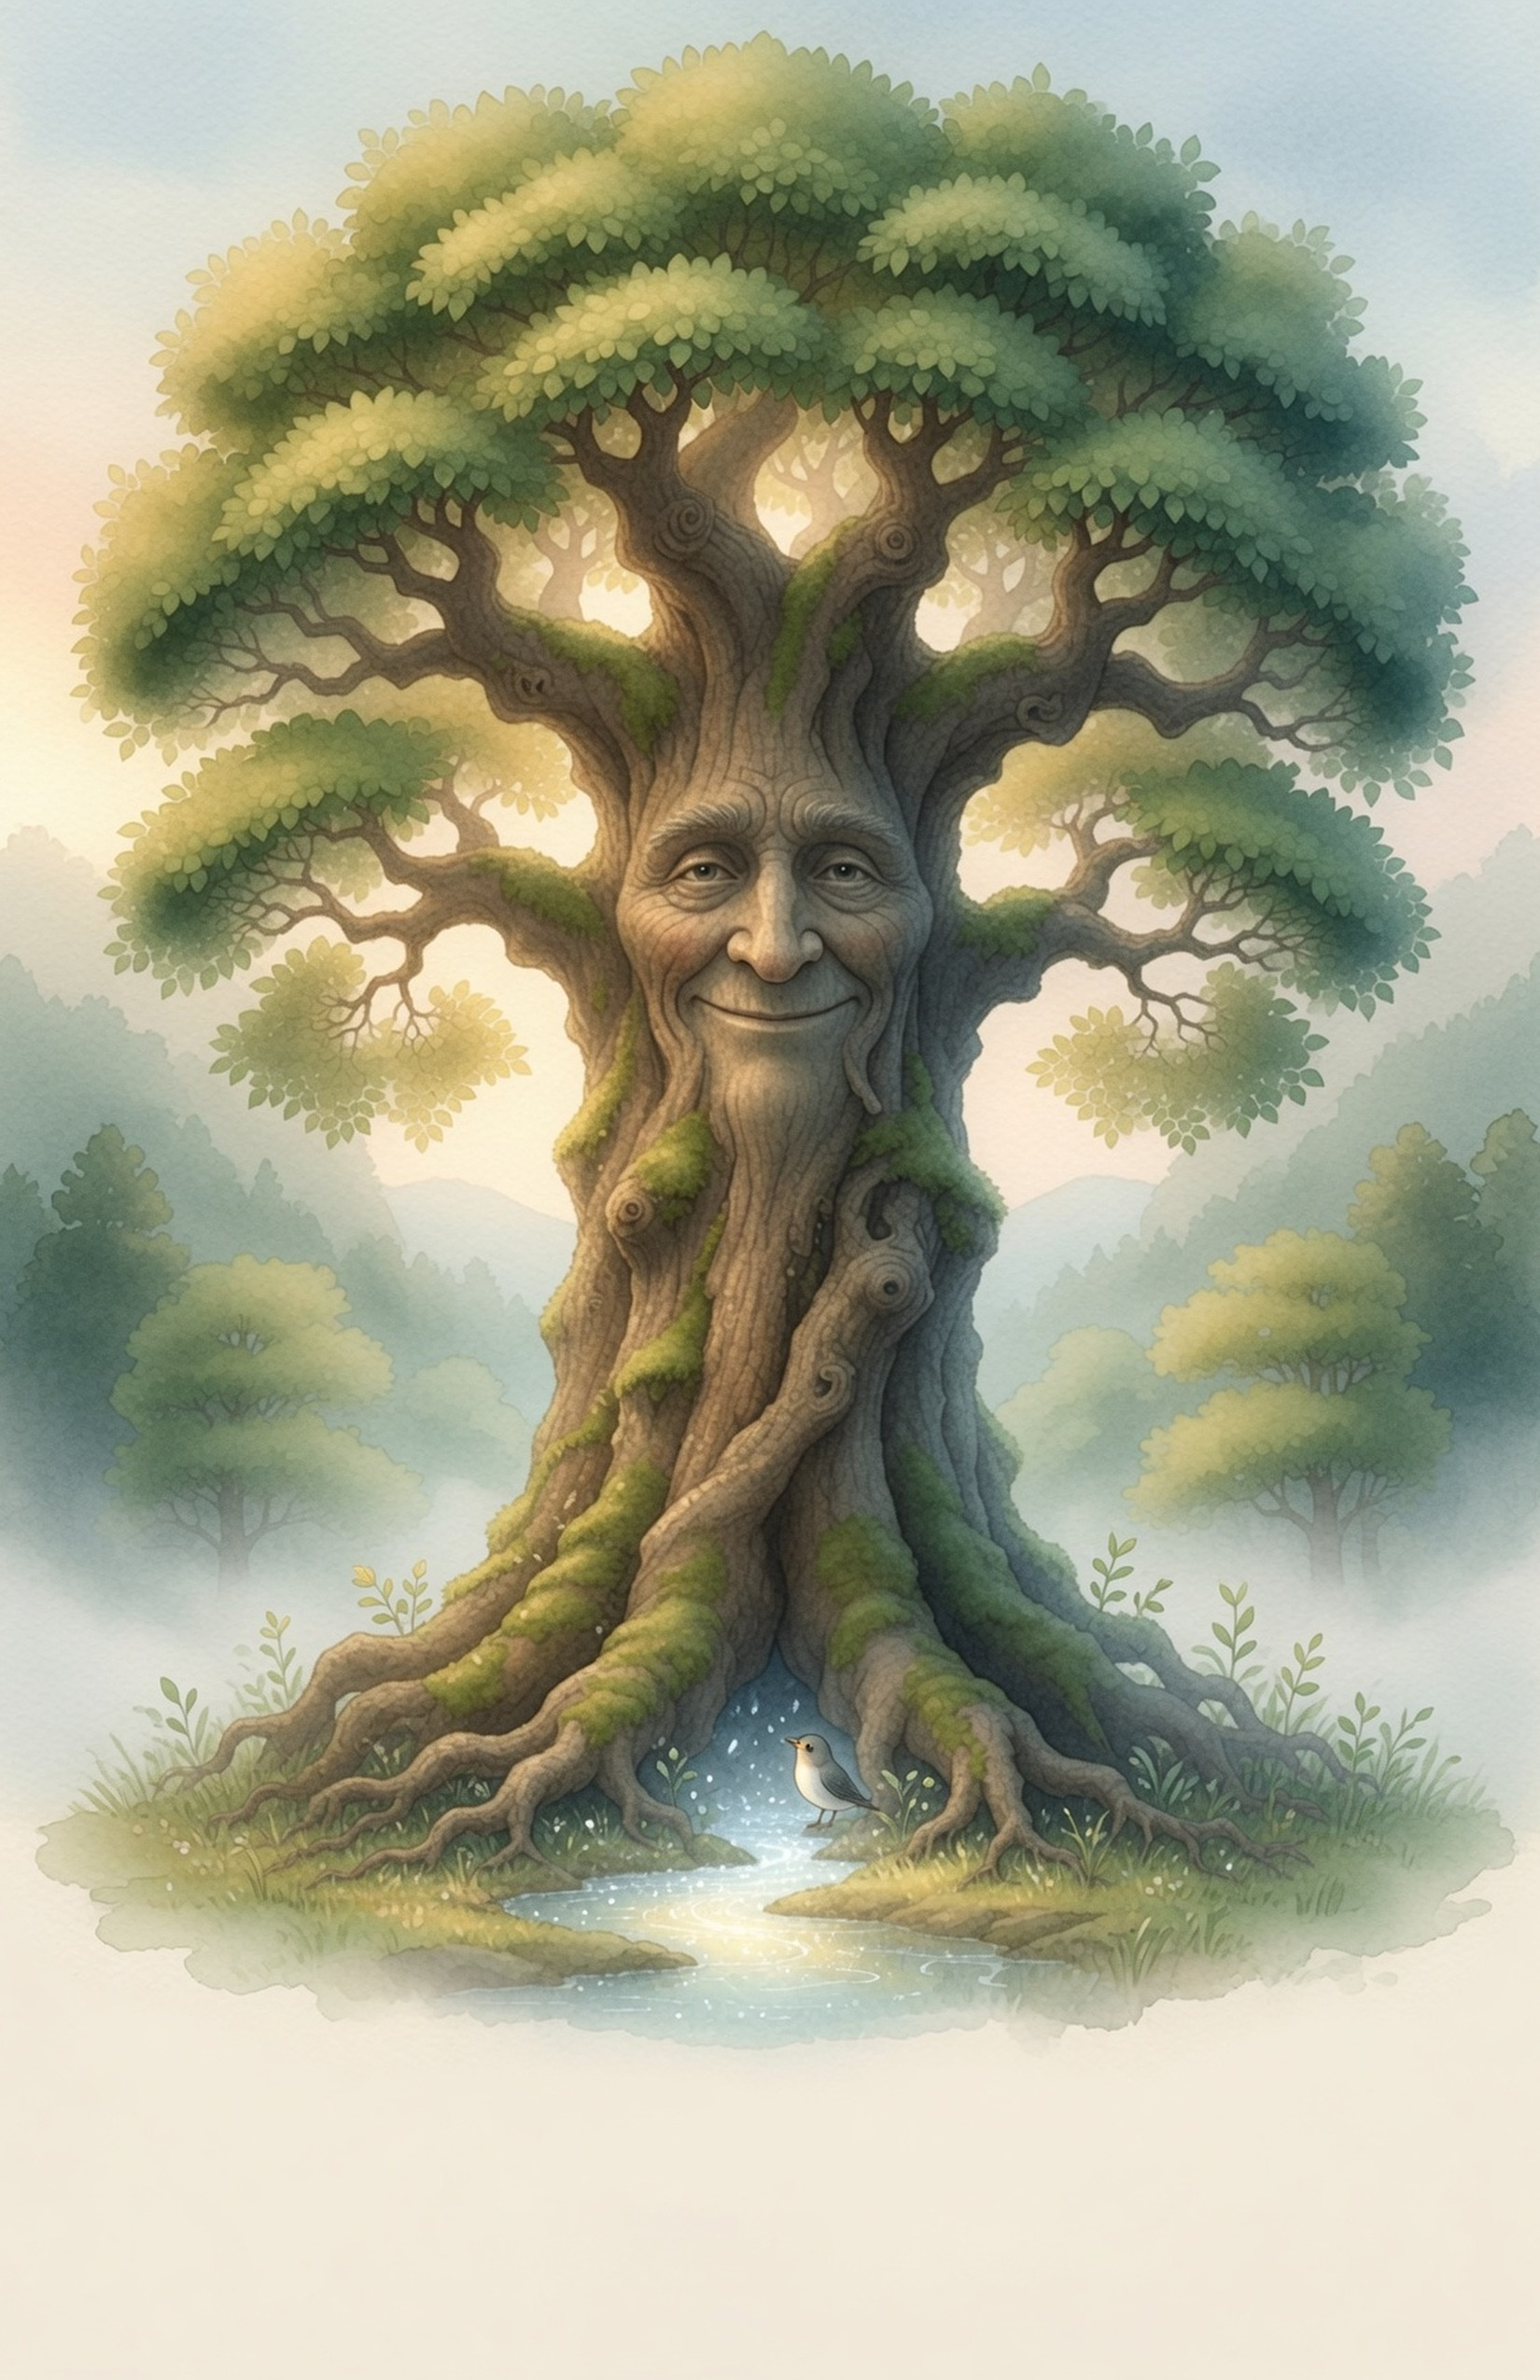
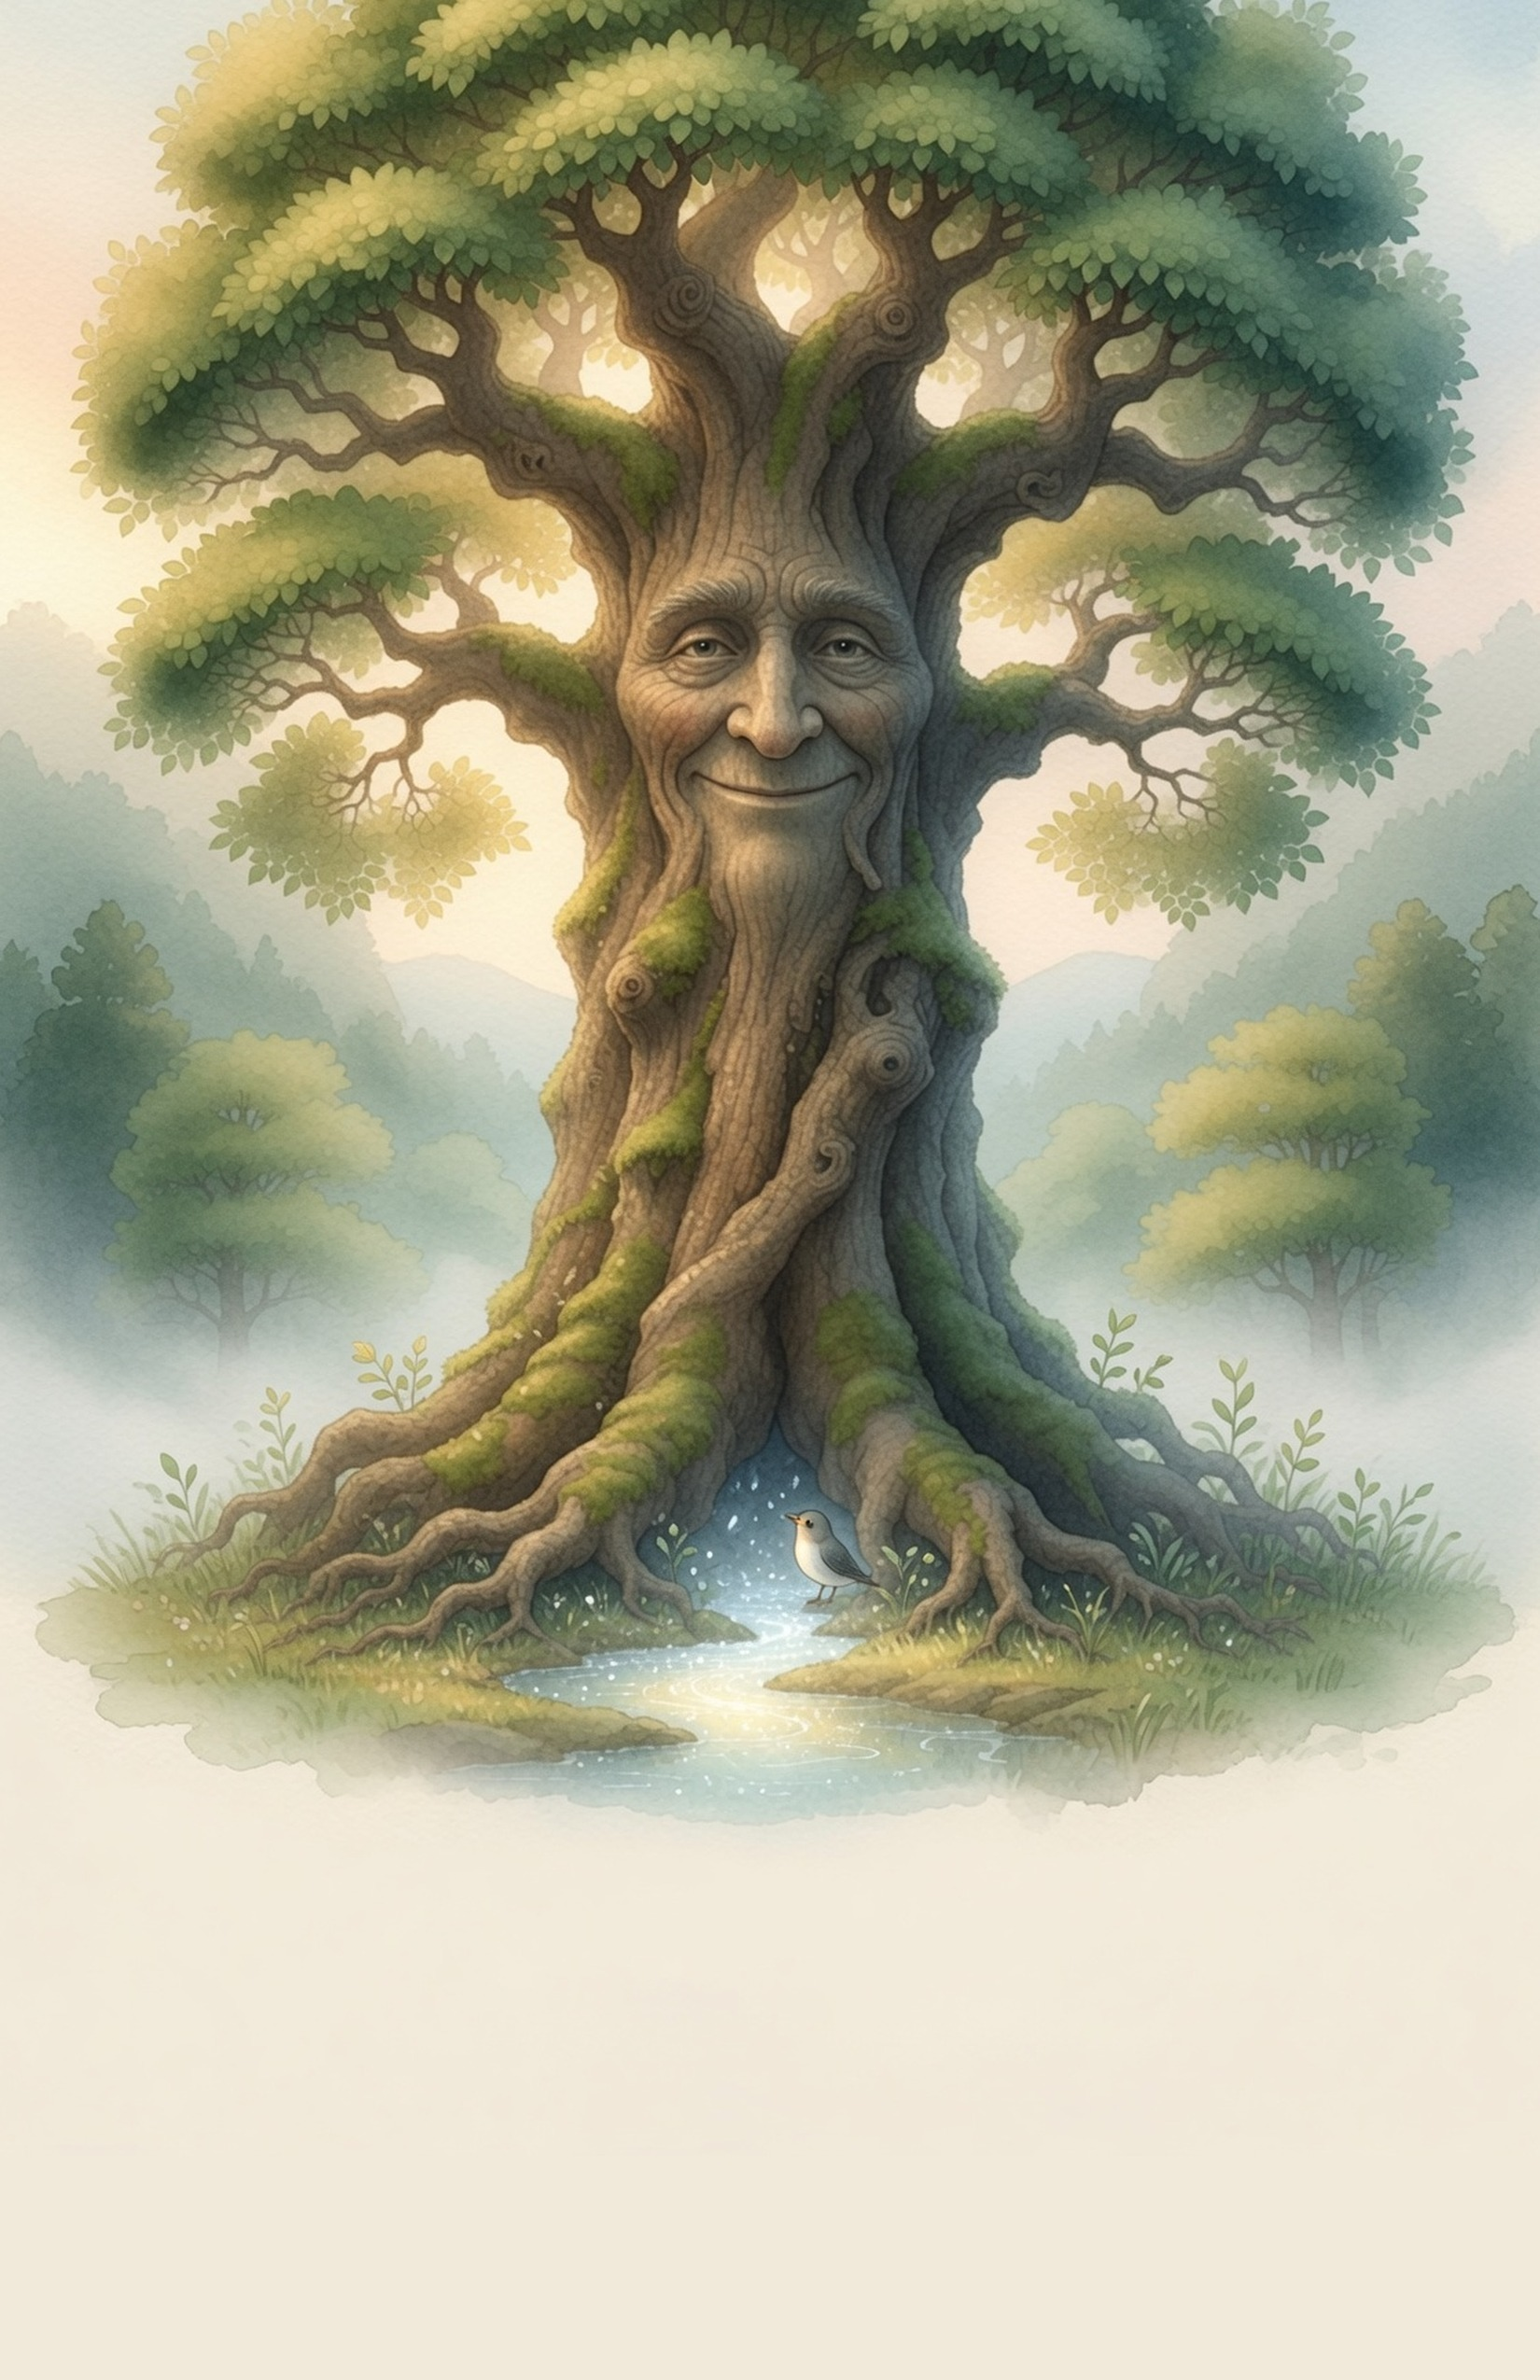
Translate Hai page 2 image up 240px, needed quite a bit but at least bottom color is flat; also script to translate_up

diff --git a/scripts/translate_up.py b/scripts/translate_up.py
@@ -1,0 +1,96 @@
+#!/usr/bin/env python3
+"""Translate an image up by X pixels, filling the exposed bottom with its edge color.
+
+Usage:
+  python translate_up.py <pixels> <filename>
+  python translate_up.py 40 ./images/page01.png
+
+The source image is shifted upward by `pixels`, revealing a strip of that many
+rows along the bottom. That strip is filled with the average color of the
+original bottom row (most inputs are a single uniform color there). Various
+input formats (jpg, png, tif, webp, bmp, etc.) are accepted; the result is
+always written as a JPEG in the same directory with a "_tup" suffix
+(e.g. page01.png -> page01_tup.jpg).
+"""
+import argparse
+import os
+
+from PIL import Image
+
+DEFAULT_QUALITY = 92
+
+IMAGE_EXTS = {".jpg", ".jpeg", ".png", ".tif", ".tiff", ".bmp", ".webp", ".gif"}
+
+
+def average_bottom_color(im):
+    """Return the integer-triplet mean color of the image's bottom row."""
+    w, h = im.size
+    bottom = im.crop((0, h - 1, w, h))
+    if hasattr(bottom, "get_flattened_data"):
+        pixels = list(bottom.get_flattened_data())
+    else:  # Pillow < 12
+        pixels = list(bottom.getdata())
+    n = len(pixels)
+    if n == 0:
+        return (0, 0, 0)
+    r = sum(p[0] for p in pixels) / n
+    g = sum(p[1] for p in pixels) / n
+    b = sum(p[2] for p in pixels) / n
+    return (round(r), round(g), round(b))
+
+
+def translate_up(src_path, pixels, quality):
+    im = Image.open(src_path).convert("RGB")
+    w, h = im.size
+
+    if pixels <= 0:
+        raise ValueError(f"pixels must be positive, got {pixels}")
+
+    base = os.path.splitext(os.path.basename(src_path))[0]
+    out_path = os.path.join(os.path.dirname(src_path), f"{base}_tup.jpg")
+
+    if pixels >= h:
+        fill = average_bottom_color(im)
+        out = Image.new("RGB", (w, h), fill)
+        out.save(out_path, "JPEG", quality=quality, optimize=True)
+        return out_path, out.size
+
+    fill = average_bottom_color(im)
+    out = Image.new("RGB", (w, h), fill)
+    top = im.crop((0, pixels, w, h))
+    out.paste(top, (0, 0))
+    out.save(out_path, "JPEG", quality=quality, optimize=True)
+    return out_path, out.size
+
+
+def main():
+    parser = argparse.ArgumentParser(
+        description="Translate an image up by X pixels, filling the bottom edge."
+    )
+    parser.add_argument("pixels", type=int, help="Number of pixels to shift up.")
+    parser.add_argument("filename", help="Path to the source image.")
+    parser.add_argument(
+        "--quality",
+        type=int,
+        default=DEFAULT_QUALITY,
+        help=f"JPEG quality (default {DEFAULT_QUALITY}).",
+    )
+    args = parser.parse_args()
+
+    if not os.path.isfile(args.filename):
+        parser.error(f"file not found: {args.filename}")
+
+    ext = os.path.splitext(args.filename)[1].lower()
+    if ext not in IMAGE_EXTS:
+        parser.error(f"unsupported image type: {ext}")
+
+    try:
+        out_path, size = translate_up(args.filename, args.pixels, args.quality)
+    except ValueError as e:
+        parser.error(str(e))
+
+    print(f"  wrote {out_path} ({size[0]}x{size[1]})")
+
+
+if __name__ == "__main__":
+    main()